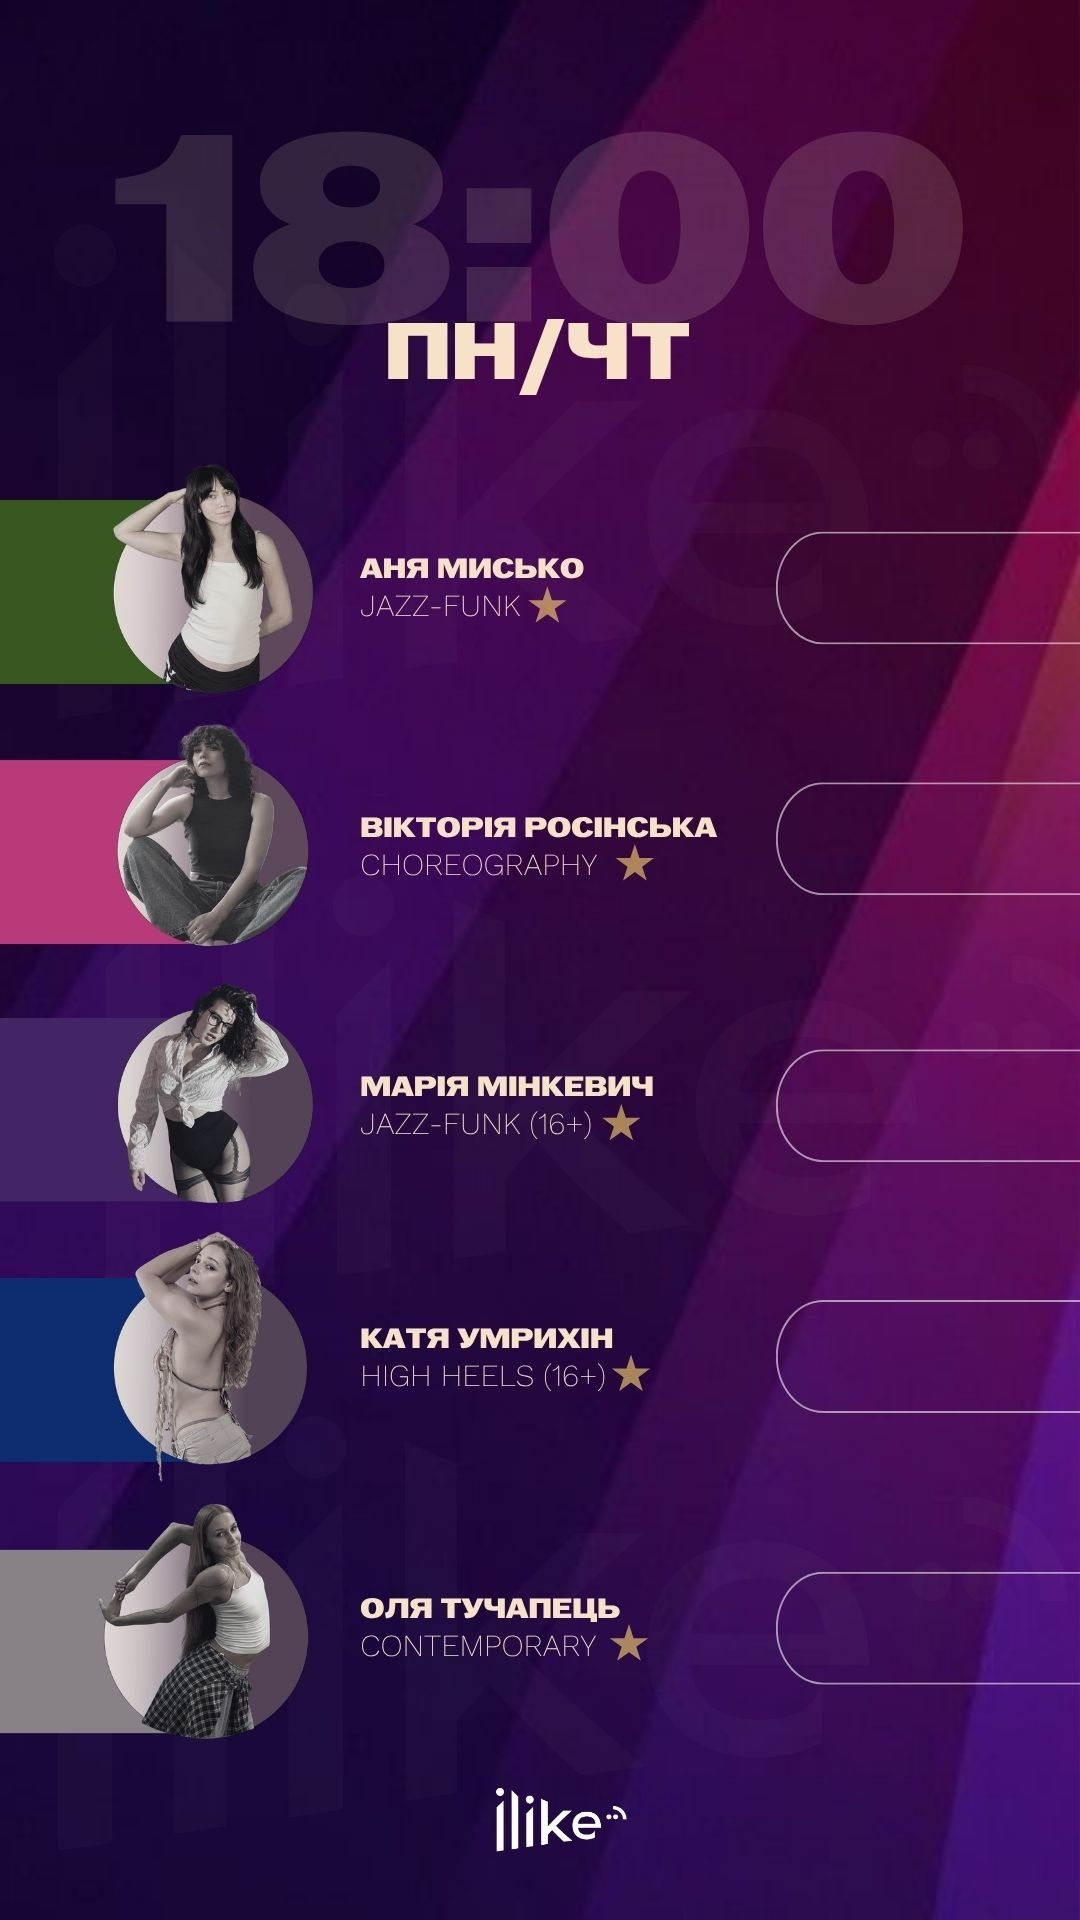
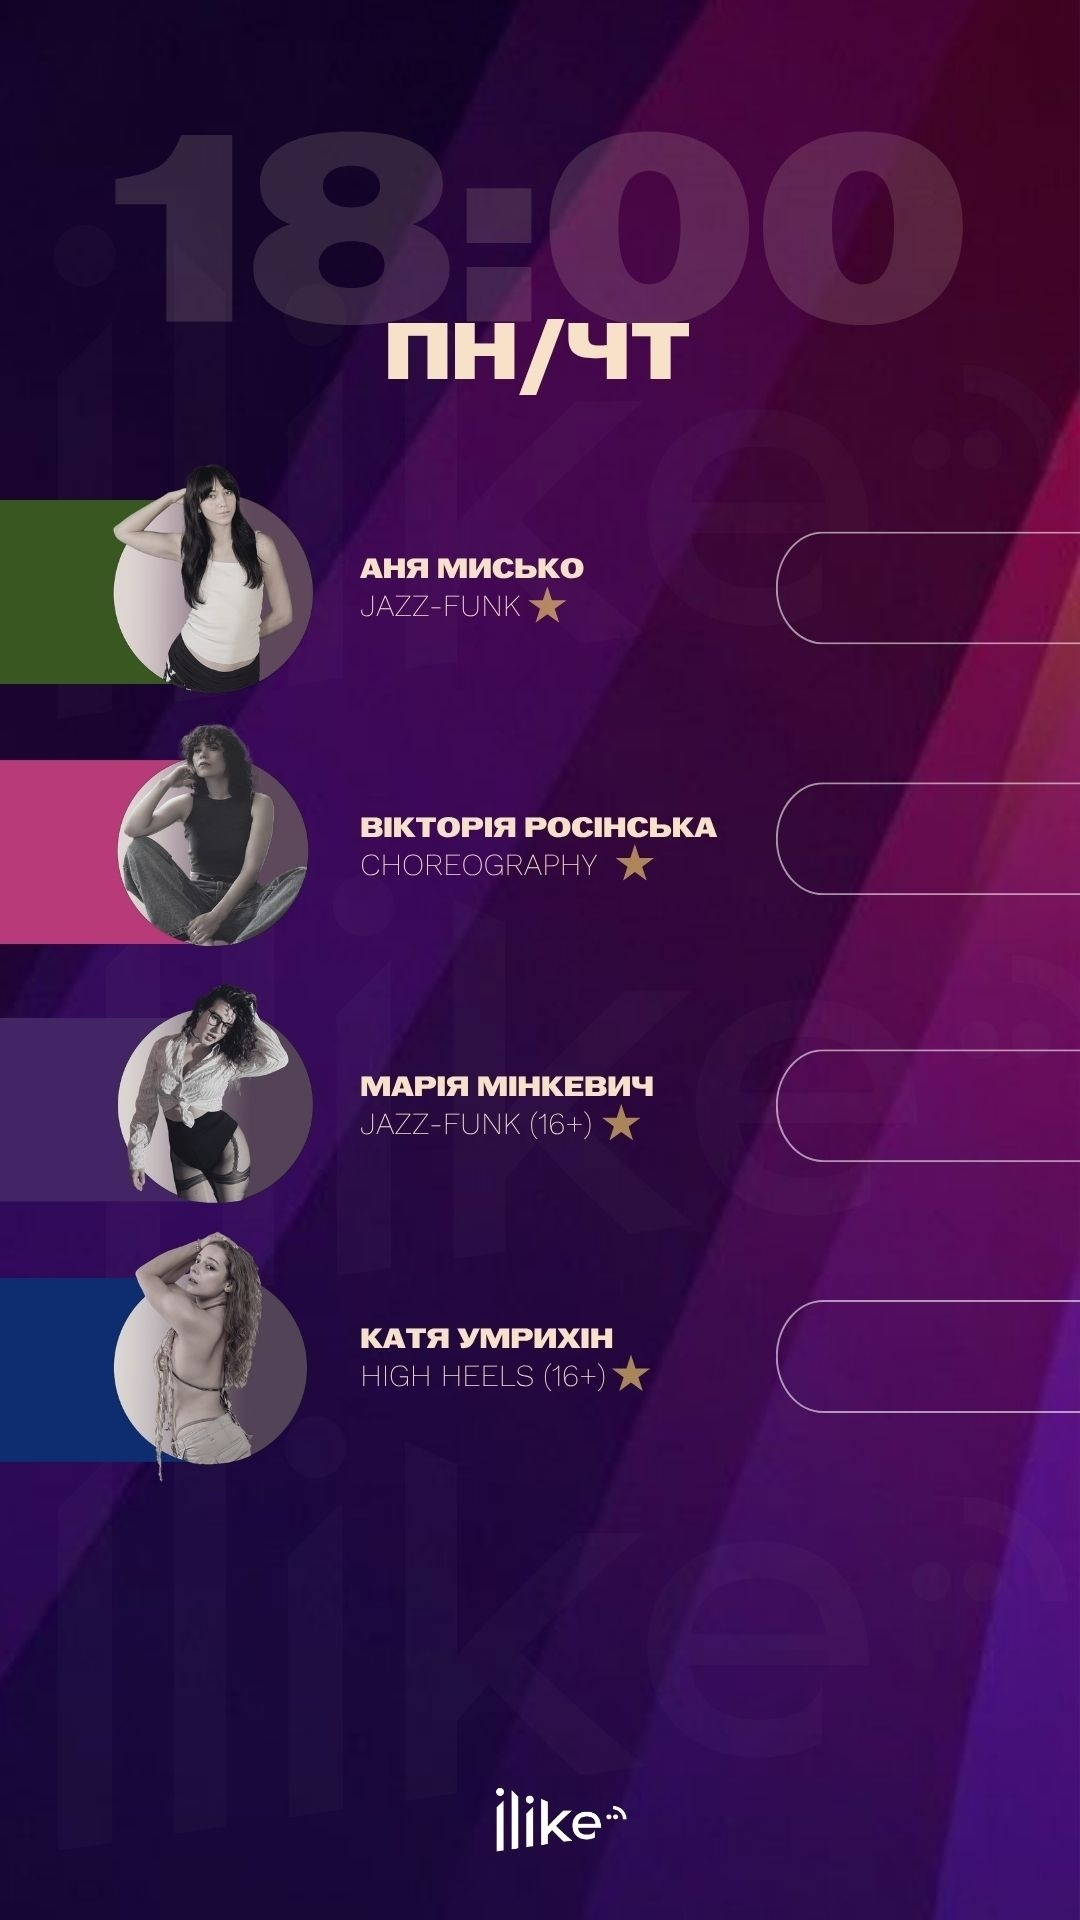
Erase Тучапець Оля's row from the mon_thu 18:00 story template
She no longer works here (already removed from config/DB). Her photo,
name, style text, and hall-color stripe were baked into the template
artwork itself, so removing her from the bot's data alone left a visible
photo next to an empty pill. Patched her entire row (full width, not just
the pill area) using the pixel-identical blank background from
17_00.jpg's unused row4 - same technique as the earlier lock-mark
erasure, just over a bigger area. Also drop her from
STORY_LAYOUTS[("mon_thu","18:00")]["rows"] since the row no longer
exists in the artwork.

Changed region(s): [[0.0, 0.7812, 0.3056, 0.9062], [0.3361, 0.8125, 0.6111, 0.875]]

diff --git a/bot/story_layout.py b/bot/story_layout.py
@@ -51,7 +51,7 @@ STORY_LAYOUTS = {
     },
     ("mon_thu", "18:00"): {
         "file": "18_00.jpg",
-        "rows": ["Мисько Аня", "Росінська Віка", "Мінкевич Марія", "Умрихін Катя", "Тучапець Оля"],
+        "rows": ["Мисько Аня", "Росінська Віка", "Мінкевич Марія", "Умрихін Катя"],
     },
     ("mon_thu", "19:00"): {
         "file": "19_00.jpg",
